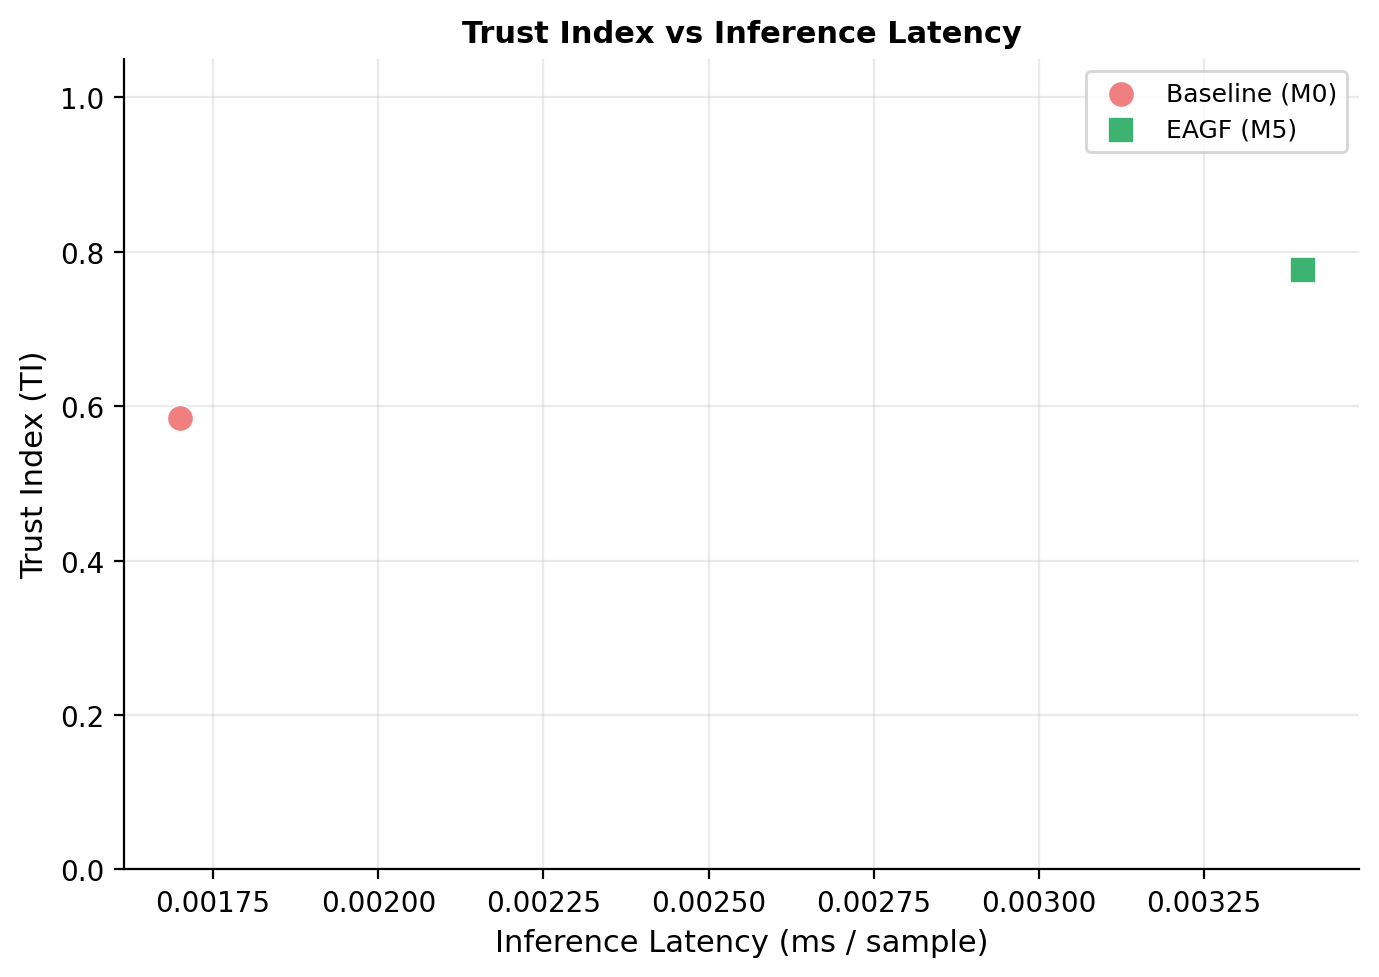
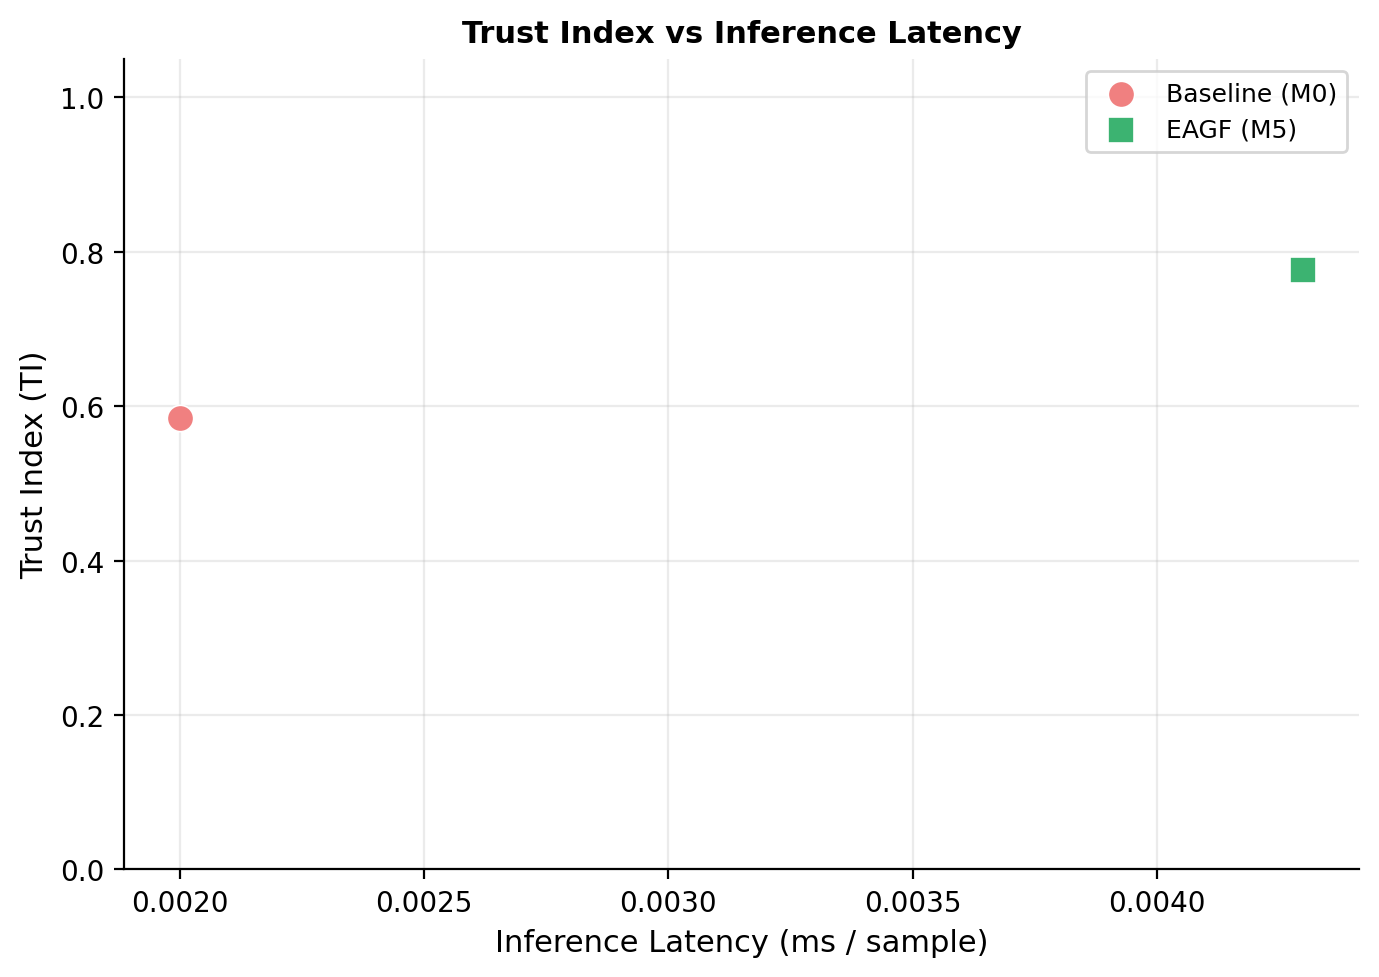
feat: Phase 4 dynamic AHP weights + tests
Agent-Logs-Url: https://github.com/aliakarma/eagf/sessions/e840158e-a88a-4b12-bf30-42d31bbfb481

diff --git a/src/training/pareto_trainer.py b/src/training/pareto_trainer.py
@@ -8,6 +8,13 @@ Scope note:
 - lambda_C controls a structural transparency surrogate regularizer.
 - Privacy is handled via DP-SGD in the trainer.
 - Accountability is post-hoc and is not a training objective.
+
+Dynamic AHP (Phase 4):
+- At the end of each Pareto grid point the AHP weights are updated via
+  `calculate_dynamic_weights()` using the observed fairness loss and MIA
+  success rate from that run.  The adapted weights are passed to the next
+  run's `trust_index` computation via the `ahp_weights` entry in the config,
+  enabling true agentic weight adaptation across the Pareto sweep.
 """
 import argparse, itertools, json, os
 import numpy as np
@@ -36,8 +43,15 @@ def pareto_front(results, objectives=None):
 
 def run_pareto_search(config, lambda_rp_range, lambda_c_range, n_steps,
                       seed, device, output_dir, dataset=None):
-    """Run full Pareto-grid search and return best model metrics."""
+    """Run full Pareto-grid search and return best model metrics.
+
+    Dynamic AHP weights are updated after each grid point using
+    ``calculate_dynamic_weights()``.  The adapted weights evolve across runs
+    in response to the observed MIA success rate and fairness loss, providing
+    agentic weight adaptation without modifying the training objective itself.
+    """
     from src.training.eagf_trainer import train_variant, load_biometric_dataset
+    from src.utils.ahp import calculate_dynamic_weights, equal_weights
 
     os.makedirs(output_dir, exist_ok=True)
     lrp_vals = log_spaced_grid(*lambda_rp_range, n_steps)
@@ -49,6 +63,9 @@ def run_pareto_search(config, lambda_rp_range, lambda_c_range, n_steps,
         data_root = config.get("data", {}).get("root", "data/biometric")
         dataset = load_biometric_dataset(data_root=data_root, demo=True, seed=seed)
 
+    # Initialise adaptive weights at the equal-weight baseline.
+    current_ahp_weights = equal_weights()
+
     all_results = []
     for i, (lrp, lc) in enumerate(grid):
         cfg = yaml.safe_load(yaml.dump(config))
@@ -58,11 +75,44 @@ def run_pareto_search(config, lambda_rp_range, lambda_c_range, n_steps,
         run_dir = os.path.join(output_dir, f"run_{i:02d}")
         metrics = train_variant("eagf", cfg, dataset, seed=seed,
                                 output_dir=run_dir)
-        entry = {**metrics, "lambda_rp": lrp, "lambda_c": lc, "run_id": i}
-        all_results.append({k: float(v) if isinstance(v, (float, np.floating)) else v
-                             for k, v in entry.items() if not isinstance(v, dict)})
+
+        # ── Dynamic AHP update (end of each Pareto run) ───────────────────
+        # Use the MIA AUC from this run as the attack-success-rate signal and
+        # the (1 - recall_parity) as a proxy for fairness loss.
+        mia_rate = float(metrics.get("mia_auc", 0.5))
+        fairness_loss_proxy = float(1.0 - metrics.get("recall_parity", 1.0))
+        privacy_loss_proxy = float(1.0 - metrics.get("privacy", 1.0))
+
+        current_ahp_weights = calculate_dynamic_weights(
+            current_privacy_loss=privacy_loss_proxy,
+            current_fairness_loss=fairness_loss_proxy,
+            mia_attack_success_rate=mia_rate,
+            previous_weights=current_ahp_weights,
+        )
+        # ─────────────────────────────────────────────────────────────────
+
+        entry = {
+            **metrics,
+            "lambda_rp": lrp,
+            "lambda_c": lc,
+            "run_id": i,
+            # Store AHP weights as flat keys so they survive the dict-filter below.
+            "ahp_privacy_weight":       current_ahp_weights["privacy"],
+            "ahp_fairness_weight":      current_ahp_weights["fairness"],
+            "ahp_clarity_weight":       current_ahp_weights["clarity"],
+            "ahp_accountability_weight": current_ahp_weights["accountability"],
+        }
+        all_results.append({
+            k: (float(v) if isinstance(v, (float, np.floating)) else v)
+            for k, v in entry.items()
+            if not isinstance(v, dict)
+        })
         print(f"  [{i+1:2d}/{len(grid)}] lrp={lrp:.4f} lc={lc:.4f} "
-              f"TI={metrics['trust_index']:.3f}")
+              f"TI={metrics['trust_index']:.3f}  "
+              f"AHP[C={current_ahp_weights['clarity']:.3f} "
+              f"F={current_ahp_weights['fairness']:.3f} "
+              f"P={current_ahp_weights['privacy']:.3f} "
+              f"A={current_ahp_weights['accountability']:.3f}]")
 
     front = pareto_front(all_results)
     best  = max(front, key=lambda r: r.get("trust_index", 0))

diff --git a/tests/test_metrics.py b/tests/test_metrics.py
@@ -243,3 +243,88 @@ class TestIntegration:
         assert d["y_train"].ndim == 1
         attack_rate = d["y_train"].mean()
         assert 0.02 <= attack_rate <= 0.15, f"Attack rate {attack_rate:.3f} out of expected range"
+
+
+# ── Dynamic AHP ────────────────────────────────────────────────────────────
+class TestDynamicAHP:
+    """Unit tests for calculate_dynamic_weights in src/utils/ahp.py."""
+
+    def _w(self, **kwargs):
+        from src.utils.ahp import calculate_dynamic_weights
+        return calculate_dynamic_weights(**kwargs)
+
+    def test_weights_sum_to_one_baseline(self):
+        """Weights must always normalise to 1.0."""
+        w = self._w(current_privacy_loss=0.0,
+                    current_fairness_loss=0.0,
+                    mia_attack_success_rate=0.5)
+        assert abs(sum(w.values()) - 1.0) < 1e-9
+
+    def test_mia_above_threshold_increases_privacy(self):
+        """MIA > 0.55 must increase privacy weight relative to no-threat case."""
+        w_safe  = self._w(current_privacy_loss=0.1,
+                          current_fairness_loss=0.0,
+                          mia_attack_success_rate=0.50)
+        w_threat = self._w(current_privacy_loss=0.1,
+                           current_fairness_loss=0.0,
+                           mia_attack_success_rate=0.60)
+        assert w_threat["privacy"] > w_safe["privacy"], (
+            f"privacy weight should rise under MIA threat: "
+            f"{w_threat['privacy']:.4f} vs {w_safe['privacy']:.4f}"
+        )
+
+    def test_high_fairness_loss_increases_fairness(self):
+        """High fairness loss must increase fairness weight."""
+        w_low  = self._w(current_privacy_loss=0.1,
+                         current_fairness_loss=0.05,
+                         mia_attack_success_rate=0.50)
+        w_high = self._w(current_privacy_loss=0.1,
+                         current_fairness_loss=0.20,
+                         mia_attack_success_rate=0.50)
+        assert w_high["fairness"] > w_low["fairness"], (
+            f"fairness weight should rise with high fairness loss: "
+            f"{w_high['fairness']:.4f} vs {w_low['fairness']:.4f}"
+        )
+
+    def test_weights_sum_to_one_under_both_threats(self):
+        """Weights still sum to 1 when both privacy and fairness rules fire."""
+        w = self._w(current_privacy_loss=0.5,
+                    current_fairness_loss=0.5,
+                    mia_attack_success_rate=0.70)
+        assert abs(sum(w.values()) - 1.0) < 1e-9
+
+    def test_ema_smoothing_reduces_jump(self):
+        """EMA smoothing must dampen abrupt weight swings."""
+        from src.utils.ahp import equal_weights
+        prev = equal_weights()
+        # Apply a maximum-threat update.
+        w_new = self._w(current_privacy_loss=1.0,
+                        current_fairness_loss=1.0,
+                        mia_attack_success_rate=1.0,
+                        previous_weights=prev)
+        # EMA α = 0.3, so the change must be ≤ 0.3 × range.
+        for k in prev:
+            delta = abs(w_new[k] - prev[k])
+            assert delta <= 0.30 + 1e-9, (
+                f"Weight '{k}' changed by {delta:.4f} > 0.30 — smoothing failed"
+            )
+
+    def test_reproducibility_across_seeds(self):
+        """Dynamic weights are deterministic (no random state)."""
+        w1 = self._w(current_privacy_loss=0.3,
+                     current_fairness_loss=0.2,
+                     mia_attack_success_rate=0.65)
+        w2 = self._w(current_privacy_loss=0.3,
+                     current_fairness_loss=0.2,
+                     mia_attack_success_rate=0.65)
+        for k in w1:
+            assert abs(w1[k] - w2[k]) < 1e-12, f"Weight '{k}' not deterministic"
+
+    def test_all_pillar_names_present(self):
+        """Returned dict must contain all four EAGF pillar keys."""
+        from src.utils.ahp import PILLAR_NAMES
+        w = self._w(current_privacy_loss=0.1,
+                    current_fairness_loss=0.1,
+                    mia_attack_success_rate=0.50)
+        for name in PILLAR_NAMES:
+            assert name in w, f"Pillar '{name}' missing from dynamic weights"

diff --git a/src/utils/ahp.py b/src/utils/ahp.py
@@ -26,6 +26,20 @@ CR_THRESHOLD = 0.10  # CR > 0.10 indicates inconsistent judgements
 # Random Inconsistency Index for n=4 (Saaty, 1980, Table 3)
 RI_4 = 0.90
 
+# --- Dynamic AHP constants ---
+# Threshold above which MIA success rate triggers a privacy weight boost.
+_MIA_THREAT_THRESHOLD = 0.55
+# Multiplicative boost applied when MIA rate exceeds the threshold.
+_PRIVACY_BOOST_FACTOR = 1.20   # +20 %
+# Threshold above which fairness loss triggers a fairness weight boost.
+_FAIRNESS_LOSS_HIGH_THRESHOLD = 0.10
+# Additive boost for fairness weight.
+_FAIRNESS_BOOST_ADDITIVE = 0.10   # +10 %
+# Exponential Moving Average (EMA) smoothing coefficient α ∈ (0, 1].
+# Lower values → slower adaptation → less oscillation.
+# α = 0.3 provides moderate responsiveness while suppressing noisy updates.
+_EMA_ALPHA = 0.30
+
 
 def equal_weights() -> dict:
     """Return equal AHP weights (w_i = 0.25 for all pillars).
@@ -82,6 +96,75 @@ def ahp_weights(pairwise_matrix: np.ndarray) -> dict:
         )
 
     return {PILLAR_NAMES[i]: float(weights[i]) for i in range(n)}
+
+
+def calculate_dynamic_weights(
+    current_privacy_loss: float,
+    current_fairness_loss: float,
+    mia_attack_success_rate: float,
+    previous_weights: Optional[dict] = None,
+) -> dict:
+    """Compute adaptive AHP pillar weights based on current threat signals.
+
+    Rules (applied sequentially to a copy of the base weights):
+      1. If ``mia_attack_success_rate`` > 0.55:
+           privacy weight × 1.20  (+20 %)
+      2. If ``current_fairness_loss`` > _FAIRNESS_LOSS_HIGH_THRESHOLD:
+           fairness weight + 0.10  (+10 pp additive boost)
+      3. Weights are re-normalised so that they sum to 1.
+
+    Smoothing:
+      The returned weights are an EMA blend of the newly computed weights and
+      the ``previous_weights`` (α = 0.30):
+          w_out = α * w_new + (1 − α) * w_prev
+      This prevents oscillation when threat signals alternate between
+      boundary values across epochs.  When ``previous_weights`` is None
+      the equal-weight baseline is used as the previous state.
+
+    Args:
+        current_privacy_loss:    Scalar privacy loss / MIA AUC estimate for
+                                 the current epoch.  Not used directly in the
+                                 rules — the signal is ``mia_attack_success_rate``.
+        current_fairness_loss:   Scalar fairness penalty from the current epoch
+                                 (e.g., recall-parity loss value).
+        mia_attack_success_rate: MIA AUC or equivalent attack success rate ∈ [0, 1].
+        previous_weights:        Previous epoch's weight dict (for EMA smoothing).
+                                 If None, uses equal weights as the prior state.
+
+    Returns:
+        Normalised weight dict: {"clarity": w_C, "fairness": w_F,
+                                  "privacy": w_P, "accountability": w_A}
+        Weights sum to 1.0 and all values are ≥ 0.
+    """
+    # Start from equal weights as the base.
+    w = {k: 0.25 for k in PILLAR_NAMES}
+
+    # Rule 1: MIA threat → boost privacy.
+    if mia_attack_success_rate > _MIA_THREAT_THRESHOLD:
+        w["privacy"] *= _PRIVACY_BOOST_FACTOR
+
+    # Rule 2: High fairness loss → boost fairness.
+    if float(current_fairness_loss) > _FAIRNESS_LOSS_HIGH_THRESHOLD:
+        w["fairness"] += _FAIRNESS_BOOST_ADDITIVE
+
+    # Step 3: Normalise so weights sum to 1.
+    total = sum(w.values())
+    w = {k: v / total for k, v in w.items()}
+
+    # EMA smoothing to prevent oscillation.
+    if previous_weights is None:
+        previous_weights = equal_weights()
+
+    smoothed = {
+        k: _EMA_ALPHA * w[k] + (1.0 - _EMA_ALPHA) * previous_weights.get(k, 0.25)
+        for k in PILLAR_NAMES
+    }
+
+    # Re-normalise after smoothing (floating-point safety).
+    total_s = sum(smoothed.values())
+    smoothed = {k: v / total_s for k, v in smoothed.items()}
+
+    return smoothed
 
 
 def validate_pairwise_matrix(matrix: np.ndarray) -> bool:

diff --git a/src/baselines/joint_dp_fair_baseline.py b/src/baselines/joint_dp_fair_baseline.py
@@ -219,10 +219,12 @@ def _train_joint(
         # This is a conservative approximation of the moments accountant
         # bound from Abadi et al. (2016), "Deep Learning with Differential
         # Privacy".  The formula ε ≈ √(2T) · q / σ (where T = total gradient
-        # steps, q = batch sampling rate, σ = noise multiplier) is a
-        # pessimistic (over-estimated) privacy bound — it may underestimate
-        # the *true* ε relative to the tighter RDP accountant used by Opacus,
-        # but provides a sound upper bound suitable for comparative evaluation.
+        # steps, q = batch sampling rate, σ = noise multiplier) is derived
+        # from the Gaussian mechanism bound and tends to *over-estimate* ε
+        # (i.e., it is privacy-conservative: it reports a *worse* privacy
+        # guarantee than the tighter RDP accountant used by Opacus would).
+        # This is intentionally safe — over-reporting ε means we never claim
+        # stronger privacy protection than is actually provided.
         try:
             n_train = len(train_loader.dataset)
             batch_size = train_loader.batch_size or 64
